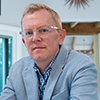
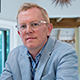
add: andy budd

diff --git a/PEOPLE.md b/PEOPLE.md
@@ -18,7 +18,7 @@ People to follow
 
 ## UX / UI
 
-* ![Andy Budd]() - Andy Budd - [Website](http://www.andybudd.com/) - [Twitter](https://twitter.com/andybudd)
+* ![Andy Budd](source/img/people/andy-budd.jpg) - Andy Budd - [Website](http://www.andybudd.com/) - [Twitter](https://twitter.com/andybudd)
 * ![Aarron Walter](source/img/people/aarron-walter.jpg) - Aarron Walter - [Website](http://aarronwalter.com/) - [Twitter](https://twitter.com/aarron)
 
 ## Design
